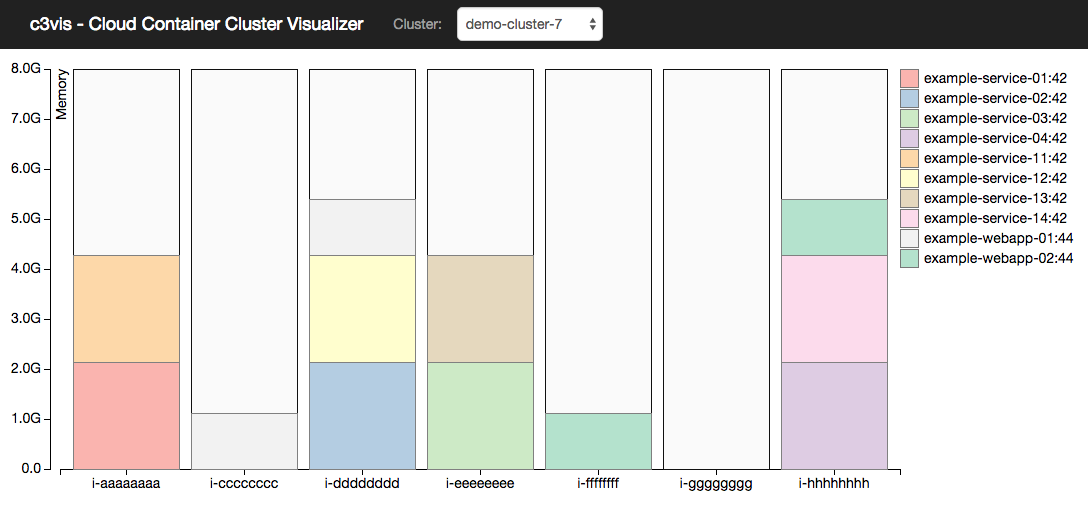
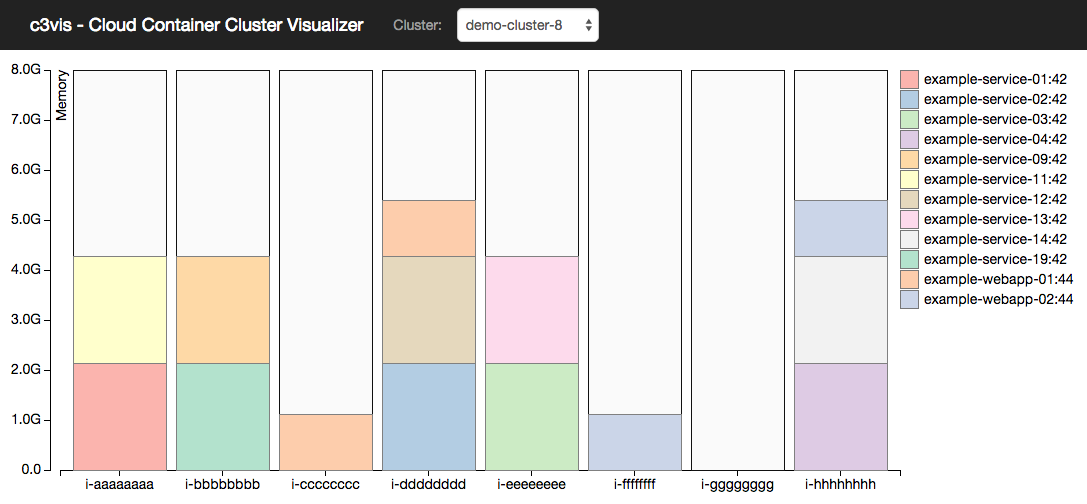
Update README.

diff --git a/routes/index.js b/routes/index.js
@@ -117,7 +117,7 @@ router.get('/api/cluster_names', function (req, res, next) {
       }
     });
   } else {
-    res.json(["demo-cluster-7", "demo-cluster-50", "demo-cluster-75", "demo-cluster-100"]);
+    res.json(["demo-cluster-8", "demo-cluster-50"]);
   }
 });
 

diff --git a/README.md b/README.md
@@ -1,6 +1,6 @@
 # c3vis - Cloud Container Cluster Visualizer
 
-Helps visualize the resource utilisation of an Amazon ECS cluster.
+Helps visualize the resource utilisation of Amazon ECS clusters.
 
 Deploying software as “containers” promises to solve many problems with regards to interoperability of environments, speed to deploy, and cost reduction.
 But understanding where our software lives now becomes more difficult both for development and operations teams.
@@ -17,7 +17,7 @@ Each Task will contain one or more containers, the task box shows accumulated re
 
 ### Limitations
 
-Cluster visualisation is currently limited to displaying up to 100 instances.
+Cluster visualisation is currently limited to displaying up to the first 100 instances in a cluster. It represents reserved memory only.
 
 
 ## Configure
@@ -80,7 +80,11 @@ When a client browser first connects to the c3vis server the Cluster dropdown wi
 
 Select from the dropdown to view the resources allocated to that cluster. If no cluster names appear in the dropdown, check the server logs and ensure the correct region is configured (see below).
 
-The list of clusters and the user's current selection are stored in cookies. Use the [refresh list] dropdown entry to refresh the list of clusters.
+The list of clusters and the user's current selection are stored in cookies. Use the ```[refresh list]``` dropdown entry to refresh the list of clusters.
+
+The Y axis shows total memory available for the instances.
+
+The X axis displays the EC2 Instance Id for each instance. Clicking the instance ID opens the ECS console for that container instance.
 
 ### Sample Clusters for Testing
 
